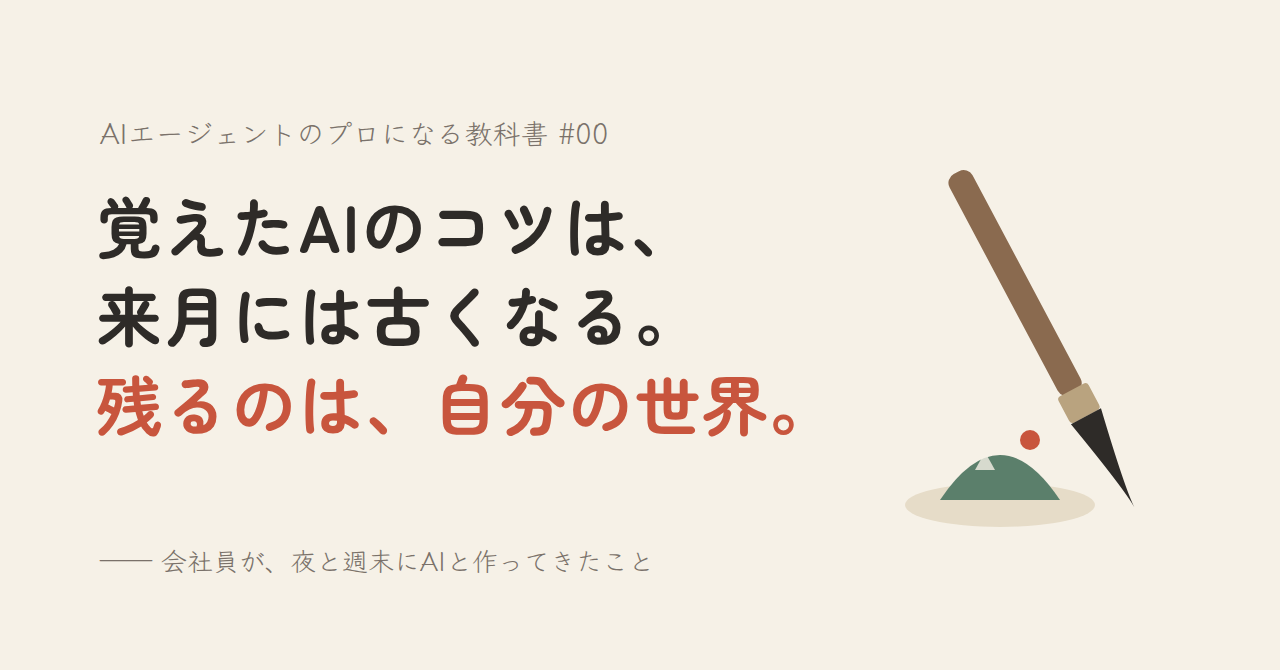
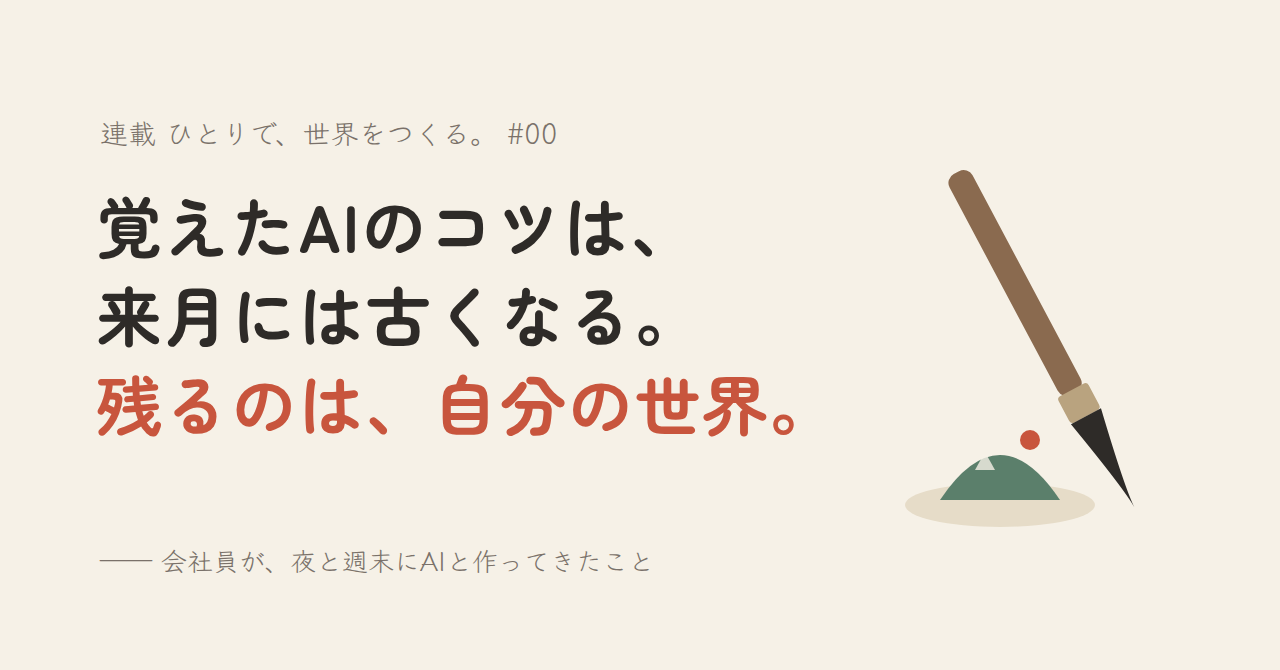
docs(note): 連載全体の大タイトルを「ひとりで、世界をつくる。」にする案と表紙3案を置く
- 07_series_title：大タイトルに求める条件（広く届く・古くならない・芯と一致・作者らしさ・検索）と候補6つの比較
- 表紙3案を描画し、#00 の見出し画像の連載名を推す案に差し替え

Claude-Session: https://claude.ai/code/session_01WdYy9Xjjirin4eQUmpa4hd

Changed region(s): [[0.0625, 0.1791, 0.4688, 0.2388]]

diff --git a/docs/note_ai_series/figures/src/cover3.html b/docs/note_ai_series/figures/src/cover3.html
@@ -1,0 +1,22 @@
+<html><head><meta charset="utf-8"><link rel="stylesheet" href="_base.css"><style>
+.fig{height:670px}
+.k{position:absolute;left:96px;top:92px;font-size:28px;color:var(--sub)}
+.t{position:absolute;left:92px;top:170px;font-size:80px;font-weight:700;line-height:1.3;letter-spacing:.03em}
+.s{position:absolute;left:98px;bottom:96px;font-size:32px;color:#4a4540}
+.bar{position:absolute;left:98px;bottom:150px;width:120px;height:6px;background:var(--accent);border-radius:3px}
+svg{position:absolute;right:80px;top:120px}
+</style></head><body><div class="fig">
+<div class="k hand">連載</div>
+<div class="t">AIと、<br>自分の世界をつくる</div>
+<div class="bar"></div>
+<div class="s hand">会社員の夜と週末から始まった、AIエージェントの教科書</div>
+<svg width="300" height="420" viewBox="0 0 300 420">
+ <ellipse cx="150" cy="370" rx="130" ry="26" fill="#e6dcc8"/>
+ <path d="M50 365 Q150 200 250 365 Z" fill="#5b7f6b"/>
+ <path d="M120 365 Q175 270 230 365 Z" fill="#7a9a85"/>
+ <circle cx="205" cy="220" r="16" fill="#c8553d"/>
+ <rect x="138" y="300" width="22" height="30" rx="3" fill="#f6f1e7"/>
+ <path d="M134 302 l15 -14 l15 14 z" fill="#c8553d"/>
+ <circle cx="90" cy="120" r="3" fill="#c9bda7"/><circle cx="240" cy="90" r="4" fill="#c9bda7"/><circle cx="60" cy="200" r="2.5" fill="#c9bda7"/>
+</svg>
+</div></body></html>

diff --git a/docs/note_ai_series/figures/src/cover1.html b/docs/note_ai_series/figures/src/cover1.html
@@ -1,0 +1,22 @@
+<html><head><meta charset="utf-8"><link rel="stylesheet" href="_base.css"><style>
+.fig{height:670px}
+.k{position:absolute;left:96px;top:92px;font-size:28px;color:var(--sub)}
+.t{position:absolute;left:92px;top:170px;font-size:96px;font-weight:700;line-height:1.3;letter-spacing:.03em}
+.s{position:absolute;left:98px;bottom:96px;font-size:32px;color:#4a4540}
+.bar{position:absolute;left:98px;bottom:150px;width:120px;height:6px;background:var(--accent);border-radius:3px}
+svg{position:absolute;right:80px;top:120px}
+</style></head><body><div class="fig">
+<div class="k hand">連載</div>
+<div class="t">ひとりで、<br>世界をつくる。</div>
+<div class="bar"></div>
+<div class="s hand">AIエージェントと、自分だけの世界を築く教科書</div>
+<svg width="300" height="420" viewBox="0 0 300 420">
+ <ellipse cx="150" cy="370" rx="130" ry="26" fill="#e6dcc8"/>
+ <path d="M50 365 Q150 200 250 365 Z" fill="#5b7f6b"/>
+ <path d="M120 365 Q175 270 230 365 Z" fill="#7a9a85"/>
+ <circle cx="205" cy="220" r="16" fill="#c8553d"/>
+ <rect x="138" y="300" width="22" height="30" rx="3" fill="#f6f1e7"/>
+ <path d="M134 302 l15 -14 l15 14 z" fill="#c8553d"/>
+ <circle cx="90" cy="120" r="3" fill="#c9bda7"/><circle cx="240" cy="90" r="4" fill="#c9bda7"/><circle cx="60" cy="200" r="2.5" fill="#c9bda7"/>
+</svg>
+</div></body></html>

diff --git a/docs/note_ai_series/figures/src/cover2.html b/docs/note_ai_series/figures/src/cover2.html
@@ -1,0 +1,22 @@
+<html><head><meta charset="utf-8"><link rel="stylesheet" href="_base.css"><style>
+.fig{height:670px}
+.k{position:absolute;left:96px;top:92px;font-size:28px;color:var(--sub)}
+.t{position:absolute;left:92px;top:170px;font-size:96px;font-weight:700;line-height:1.3;letter-spacing:.03em}
+.s{position:absolute;left:98px;bottom:96px;font-size:32px;color:#4a4540}
+.bar{position:absolute;left:98px;bottom:150px;width:120px;height:6px;background:var(--accent);border-radius:3px}
+svg{position:absolute;right:80px;top:120px}
+</style></head><body><div class="fig">
+<div class="k hand">連載</div>
+<div class="t">コツより、<br>世界を。</div>
+<div class="bar"></div>
+<div class="s hand">AIが毎月変わる時代の、ものづくりと仕事の教科書</div>
+<svg width="300" height="420" viewBox="0 0 300 420">
+ <ellipse cx="150" cy="370" rx="130" ry="26" fill="#e6dcc8"/>
+ <path d="M50 365 Q150 200 250 365 Z" fill="#5b7f6b"/>
+ <path d="M120 365 Q175 270 230 365 Z" fill="#7a9a85"/>
+ <circle cx="205" cy="220" r="16" fill="#c8553d"/>
+ <rect x="138" y="300" width="22" height="30" rx="3" fill="#f6f1e7"/>
+ <path d="M134 302 l15 -14 l15 14 z" fill="#c8553d"/>
+ <circle cx="90" cy="120" r="3" fill="#c9bda7"/><circle cx="240" cy="90" r="4" fill="#c9bda7"/><circle cx="60" cy="200" r="2.5" fill="#c9bda7"/>
+</svg>
+</div></body></html>

diff --git a/docs/note_ai_series/figures/src/fig0_header.html b/docs/note_ai_series/figures/src/fig0_header.html
@@ -6,7 +6,7 @@
 .n{position:absolute;left:100px;bottom:92px;font-size:26px;color:var(--sub)}
 svg{position:absolute;right:70px;top:110px}
 </style></head><body><div class="fig">
-<div class="s hand">AIエージェントのプロになる教科書 #00</div>
+<div class="s hand">連載 ひとりで、世界をつくる。 #00</div>
 <div class="t">覚えたAIのコツは、<br>来月には古くなる。<br><em>残るのは、自分の世界。</em></div>
 <div class="n hand">―― 会社員が、夜と週末にAIと作ってきたこと</div>
 <svg width="330" height="450" viewBox="0 0 330 450">

diff --git a/docs/note_ai_series/07_series_title.md b/docs/note_ai_series/07_series_title.md
@@ -1,0 +1,38 @@
+# 連載全体の大タイトル
+
+> 各回のタイトル（中タイトル）とは役割が違う。
+> - 大タイトル：連載をひと言で表し、AIに詳しくない人も「自分の話だ」と思える入口にする
+> - 中タイトル：その回の悩みと答えを具体的に言う（例：#00「覚えたAIのコツは、来月には古くなる。残るのは『自分の世界』だった」）
+
+## 大タイトルに求めること
+1. **広く届く**：会社員、クリエイター、学生、経営者、AIに詳しくない人。「プロ」「エージェント」「プロンプト」だけで始めない
+2. **古くならない**：モデル名や機能名を入れない。来年も同じ名前で続けられる
+3. **連載の芯と一致する**：自分だけの世界を、AIで築き、壊し、乗りこなす
+4. **作者らしさ**：サイト「ひとりぶんの棚」、研究ノートの「ひとり基準」など、作者の言葉は「ひとり」
+5. **検索にも引っかかる**：「AIエージェント」は副題に入れる
+6. **数字を入れない**（WRITING_RULES.md）
+
+## 候補
+
+| # | 大タイトル | 副題 | 広さ | 古くならない | 芯 | 作者らしさ | 気になる点 |
+|---|---|---|---|---|---|---|---|
+| **1（推す）** | **ひとりで、世界をつくる。** | AIエージェントと、自分だけの世界を築く教科書 | ◎ | ◎ | ◎ | ◎ | 「世界」が大きく聞こえる。副題と各回の身近な場面で地に足をつける |
+| 2 | コツより、世界を。 | AIが毎月変わる時代の、ものづくりと仕事の教科書 | ○ | ◎ | ◎ | ○ | 言い切りは強いが、初めての人には意味が一瞬で伝わりにくい |
+| 3 | AIと、自分の世界をつくる | 会社員の夜と週末から始まった、AIエージェントの教科書 | ◎ | ◎ | ○ | ○ | 分かりやすいが、印象に残りにくい |
+| 4 | ひとりでできることが、変わった。 | AIエージェント時代の教科書 | ◎ | ○ | △ | ○ | 変化は伝わるが、「だから何をするか」が弱い |
+| 5 | AIエージェントのプロになる教科書（これまでの名前） | ― | △ | ○ | ○ | △ | 「プロ」「エージェント」で、自分ごとにならない人が多い |
+| 6 | 自分の世界を持つ人は、AIに置いていかれない | ― | ○ | ○ | ◎ | △ | 大タイトルとしては長く、不安をあおる向きがある |
+
+## 推す理由（候補1）
+- 「ひとりで」は、AIで一番大きく変わったこと（ひとりでできることの大きさ）を、そのまま言っている
+- 「世界をつくる」は、連載の芯（テクニックではなく自分の世界）そのもの。趣味にも仕事にも当てはまる
+- 句点「。」で言い切ると、宣言として記憶に残る
+- 「AIエージェント」は副題に置くので、検索でも見つかる。AIに詳しくない人は、大タイトルだけで入ってこられる
+
+## 表記の組み合わせ
+- マガジン名：ひとりで、世界をつくる。｜AIエージェントと、自分だけの世界を築く教科書
+- 各回の見出し画像の小さい文字：「連載 ひとりで、世界をつくる。 #00」
+- 各回のタイトルはこれまでどおり、その回の悩みと答え（中タイトル）
+
+## 表紙の比較
+figures/series_cover1.png〜3.png、figures/series_cover_compare.jpg

diff --git a/docs/note_ai_series/README.md b/docs/note_ai_series/README.md
@@ -1,4 +1,4 @@
-# 連載「AIエージェントで、ひとりがスタジオになる」
+# 連載「ひとりで、世界をつくる。」｜AIエージェントと、自分だけの世界を築く教科書
 
 **書く前に必ず [WRITING_RULES.md](WRITING_RULES.md) を見る（最初に細かい数字を出さない）。**
 
@@ -11,6 +11,7 @@
 | [figures/](figures/) | 記事の図（PNG）と作り方（src/ の HTML。フォントは Google Fonts の Klee One・Zen Maru Gothic を src/fonts/ に置いて描画。git には入れない） | — |
 | [research/fix_analysis.md](research/fix_analysis.md) | 直したコミット287件の分類の要約（全件は fix_classified.tsv） | 調査 |
 | [ep00_pro_is_not_prompt.md](ep00_pro_is_not_prompt.md) | **#00（無料）覚えたAIのコツは、来月には古くなる。残るのは「自分の世界」だった**。人気noteの書き方に合わせた第3稿（約1,800字・見出し5・図6・太字1）。タイトルの候補と判断は 06_title_options.md。スマホでの見え方は preview/ep00_phone_1〜3.jpg | 第3稿 |
+| [07_series_title.md](07_series_title.md) | 連載全体の大タイトル：求める条件、候補6つの比較、推す理由、表紙3案（figures/series_cover*.png） | 案 |
 | [04_concept_world.md](04_concept_world.md) | **最新の軸**：プロはテクニックではなく、自分だけの世界を持つ人。築く・壊す・乗りこなすの三本柱、noteの型、全11回と道具箱、#00の書き出し | 完成 |
 | [05_story_and_material.md](05_story_and_material.md) | **最新の軸の掘り下げ**：主張の筋道、写真と絵画のたとえ、読者の変化の道のり、各回の題材（研究ノートの原文つき）、反論と答え、#00の運び | 完成 |
 | [03_concept_success.md](03_concept_success.md) | 古い案：失敗ではなく「ひとりでできるようになったこと」を主役にする。芯の一言、noteの型（興味・損失・利益・独自性）、成果が主役の全11回、#00の書き出し見本 | 完成 |

diff --git a/docs/note_ai_series/ep00_pro_is_not_prompt.md b/docs/note_ai_series/ep00_pro_is_not_prompt.md
@@ -1,6 +1,6 @@
 <!--
 【編集メモ — note には貼らない】
-- 連載「AIエージェントのプロになる教科書」#00（無料）
+- 連載「ひとりで、世界をつくる。｜AIエージェントと、自分だけの世界を築く教科書」#00（無料）。大タイトルの候補と判断は 07_series_title.md
 - タイトルの考え方
   - 前半「覚えたAIのコツは、来月には古くなる。」で、読者がうすうす感じている不安を言い当てる
   - 後半「残るのは『自分の世界』だった」で、答えがあることを約束する
